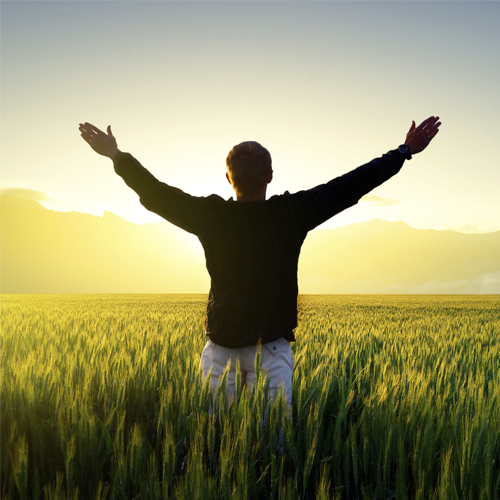
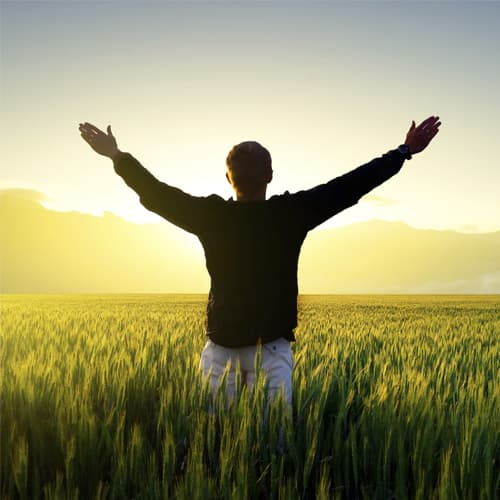
imagenes performantes

diff --git a/index.html b/index.html
@@ -98,7 +98,7 @@
             <div class="col-md-2 col-4">
                 <div class="seguro-item">
                     <a href="./pages/casa.html">
-                    <img src="images/hogar.webp"   alt="Seguro de Casa" class="img-fluid rounded-circle seguro-hover">
+                    <img src="images/hogar.jpg"   alt="Seguro de Casa" class="img-fluid rounded-circle seguro-hover">
                 </a>                  
                     <p class="mt-3">Casa</p>
                 </div>

diff --git a/pages/casa.html b/pages/casa.html
@@ -68,7 +68,7 @@
     
             <!-- Imagen -->
             <div class="col-md-6 d-flex justify-content-center">
-                <img src="../images/hogar.webp" alt="Auto" class="img-fluid rounded-3 shadow-lg responsive-image" loading="lazy" style="max-width: 450px;">
+                <img src="../images/hogar.jpg" alt="Auto" class="img-fluid rounded-3 shadow-lg responsive-image" loading="lazy" style="max-width: 450px;">
             </div>
         </div>
     </div>
